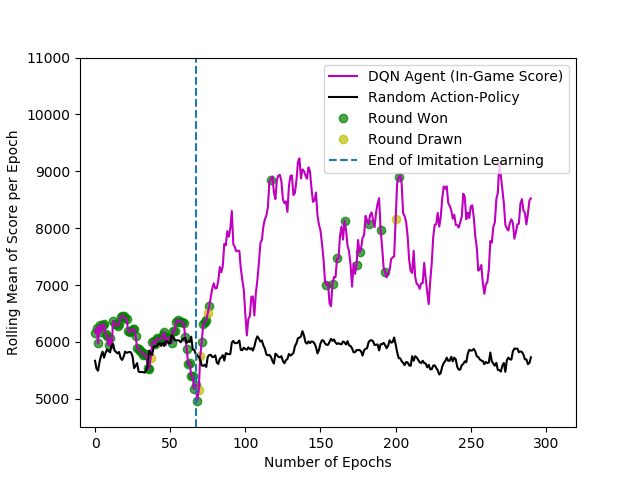
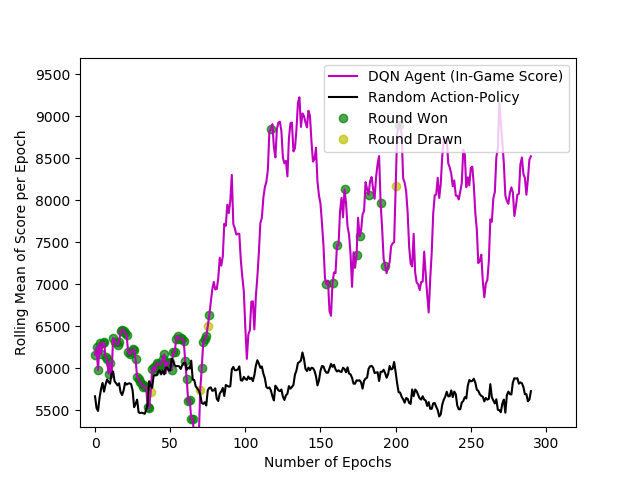
Final commit

diff --git a/misc/plot_game_result.py b/misc/plot_game_result.py
@@ -241,7 +241,7 @@ def plot_game_res(dir, name, ylabel, xlabel='Number of Epochs'):
     plt.ylabel(ylabel)
 
     #plt.axvline(x=67, label="End of Imitation Learning", linestyle='--')
-    plt.ylim(5300, 9700)
+    plt.ylim(4500, 11500)
     plt.xlim(-10, 320)
     plt.legend()
     #plt.title("67 Epochs of Prior Imitation Learning")
@@ -256,4 +256,4 @@ def plot_game_res(dir, name, ylabel, xlabel='Number of Epochs'):
 
 # Sc2 score
 plot_game_res("../Data/game/sc2_score/imi", ylabel='Rolling Mean of Score per Epoch',
-              name='sc2_score_window_100')
+              name='sc2_score_window_100_long_axis')
